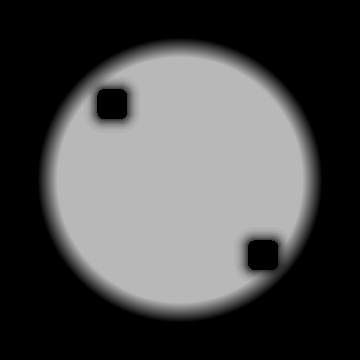
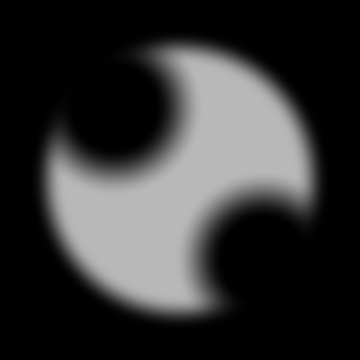
fix: revise K2 complete field direction and core edge

Changed region(s): [[0.1222, 0.1222, 0.55, 0.5194], [0.4889, 0.4889, 0.8861, 0.8861]]

diff --git a/verification/final-art-025-material-test/k2-complete-field-study.html b/verification/final-art-025-material-test/k2-complete-field-study.html
@@ -1,21 +1,21 @@
 <!doctype html>
 <html lang="zh-CN">
 <head><meta charset="utf-8"><meta name="viewport" content="width=device-width,initial-scale=1">
-<title>MindIsle WaterBall · K2 完整字段对照</title>
+<title>MindIsle WaterBall · K2 完整字段对照 · 修正版</title>
 <style>
 :root{color-scheme:light;--ink:#183b45;--muted:#5f7b82;--line:#d7e7e9;--panel:#f2f8f8;--accent:#277b88}*{box-sizing:border-box}body{margin:0;background:#eef6f7;color:var(--ink);font-family:-apple-system,BlinkMacSystemFont,"SF Pro Text","PingFang SC","Microsoft YaHei",sans-serif}main{max-width:980px;margin:0 auto;padding:30px 20px 56px}h1{margin:0 0 8px;font-size:28px}.intro{max-width:820px;color:var(--muted);line-height:1.7}.rule{border-left:3px solid var(--accent);background:#fff;padding:13px 16px;border-radius:0 10px 10px 0;line-height:1.65;margin:16px 0}.compare{display:grid;grid-template-columns:repeat(2,minmax(0,1fr));gap:16px}.card{background:#fff;border:1px solid var(--line);border-radius:14px;padding:12px}.card h2{font-size:17px;margin:2px 0 8px}.card p{font-size:13px;color:var(--muted);line-height:1.55}.card img,.card canvas{display:block;width:100%;aspect-ratio:1;border-radius:10px;background:#9aa6aa}.controls{display:flex;gap:8px;flex-wrap:wrap;margin:12px 0}.controls button{border:1px solid #bdd9dc;background:#fff;border-radius:999px;padding:8px 12px;color:var(--ink);cursor:pointer}.controls button.active{background:var(--accent);border-color:var(--accent);color:#fff}.range{display:grid;grid-template-columns:120px 1fr 58px;gap:8px;align-items:center;margin:12px 0}.range input{width:100%}.status{display:inline-block;padding:6px 10px;border-radius:999px;background:#e8f7f8;color:#155c65;font-size:13px}.question{border:2px solid var(--accent);background:#fff;border-radius:14px;padding:18px;margin-top:18px}.question h2{margin:0 0 8px;font-size:21px}.question p{color:var(--muted);line-height:1.6}.answers{display:flex;gap:10px;flex-wrap:wrap}.answer{border:1px solid #bdd9dc;background:#fff;border-radius:12px;padding:10px 16px;color:var(--ink);cursor:pointer;font:inherit}.answer.selected{background:var(--accent);border-color:var(--accent);color:#fff}.note{width:100%;min-height:70px;border:1px solid var(--line);border-radius:10px;padding:10px;font:14px inherit;margin-top:12px}.result{white-space:pre-wrap;background:var(--panel);border-radius:9px;padding:12px;margin-top:12px;font:12px ui-monospace,SFMono-Regular,Menlo,monospace;color:#42646b}.chips{display:flex;flex-wrap:wrap;gap:6px;margin-top:10px}.chip{font-size:12px;padding:5px 8px;border-radius:999px;background:var(--panel);color:#42646b}@media(max-width:760px){.compare{grid-template-columns:1fr}}
 </style></head>
 <body><main>
-<h1>K2 完整字段对照</h1>
-<p class="intro">这一页只验证一件事：右边新拆出的完整字段包，视觉上是否保持左边已经通过的水球。左边是已通过版本，右边是新字段包。你不需要看字段名称。</p>
-<div class="rule"><strong>只看左右两边：</strong>右边不能比左边更破、更硬、更灰、更像雾；球体边缘和内部水感应保持一致。点击右边“自动播放”观察变化。</div>
-<div class="compare"><section class="card"><h2>左边：已通过版本</h2><span class="status">当前视觉基线</span><p>这是上一轮已经通过的 A shell/core + B interior。</p><img src="k2-authored-optical-field/field-authority-rgb.png" alt="已通过版本"></section><section class="card"><h2>右边：新完整字段包</h2><span class="status">新字段重建</span><p>这是由独立 shell、core、silhouette 和内部字段重新合成的版本。</p><canvas id="gpu" width="360" height="360"></canvas><div class="controls"><button id="play">自动播放</button><button id="pause">暂停</button><button id="reset">回到起点</button></div><div class="range"><label>变化强度</label><input id="strength" type="range" min="0" max="1" step=".001" value="1"><span id="strengthValue">1.000</span></div></section></div>
+<h1>K2 完整字段对照 · 修正版</h1>
+<p class="intro">这一页只验证一件事：右边新拆出的完整字段包，视觉上是否保持左边已经通过的水球。左边是已通过版本，右边是修正后的新字段包。你不需要看字段名称。</p>
+<div class="rule"><strong>只看左右两边：</strong>右边不能比左边更破、更硬、更灰、更像雾；核边缘不能出现方形或额外一层膜。点击右边“自动播放”观察变化；方向保持上一轮已通过版本的内部流向。</div>
+<div class="compare"><section class="card"><h2>左边：已通过版本</h2><span class="status">当前视觉基线</span><p>这是上一轮已经通过的 A shell/core + B interior。</p><img src="k2-authored-optical-field/field-authority-rgb.png" alt="已通过版本"></section><section class="card"><h2>右边：新完整字段包</h2><span class="status">修正版候选</span><p>这是修正方向和核边缘后的独立字段重建版本。</p><canvas id="gpu" width="360" height="360"></canvas><div class="controls"><button id="play">自动播放</button><button id="pause">暂停</button><button id="reset">回到起点</button></div><div class="range"><label>变化强度</label><input id="strength" type="range" min="0" max="1" step=".001" value="1"><span id="strengthValue">1.000</span></div><div class="range"><label>内部方向</label><input id="flow" type="range" min="0" max="1" step=".001" value="1"><span id="flowValue">1.000</span></div></section></div>
 <div class="controls" id="backgrounds"><button data-bg="fit" class="active">浅色</button><button data-bg="dark">深色</button><button data-bg="checker">棋盘</button></div><p id="status" class="status">正在加载新字段…</p><div class="chips"><span class="chip">A shell</span><span class="chip">A core</span><span class="chip">interior depth</span><span class="chip">density</span><span class="chip">transmission</span><span class="chip">refraction</span></div>
 <section class="question"><h2>你的判断：右边和左边一样自然吗？</h2><p>只比较两个球的外形、边缘、内部水感和动态是否一致。</p><div class="answers"><button class="answer" data-value="是">是，基本一致</button><button class="answer" data-value="否">否，右边明显变差</button><button class="answer" data-value="看不出来">看不出来</button></div><textarea id="note" class="note" placeholder="可选：例如“右边顶部变硬”“右边内部更像雾”。"></textarea><div class="controls"><button id="generate" class="controls-button">生成裁决文本</button><button id="copy" class="controls-button">复制裁决文本</button></div><div id="result" class="result">还没有生成裁决文本。</div></section>
 <p class="intro"><a href="k2-endpoint-review.html">返回总裁决页面</a> · <a href="k2-complete-authored-field/k2-complete-authored-field.json">查看完整字段证据</a></p>
 </main><script>
 const V=`#version 300 es\nin vec2 p;out vec2 uv;void main(){uv=p*.5+.5;gl_Position=vec4(p,0.,1.);}`;
-const F=`#version 300 es\nprecision highp float;in vec2 uv;out vec4 outColor;uniform sampler2D tBase,tShell,tCore,tShellMask,tCoreMask,tDepth,tThickness,tTransmission,tResidual,tInterior,tSilhouette;uniform int bgMode;uniform float strength,phase;vec3 bg(vec2 p){if(bgMode==1)return vec3(.07,.13,.16);if(bgMode==2){vec2 c=floor(p*12.);return mix(vec3(.96,.97,.92),vec3(.82,.89,.91),mod(c.x+c.y,2.));}return vec3(.8784,.9216,.9373);}void main(){float im=texture(tInterior,uv).r;float sm=texture(tShellMask,uv).r;float cm=texture(tCoreMask,uv).r;float sil=texture(tSilhouette,uv).r;vec3 base=texture(tBase,uv).rgb;vec3 shell=texture(tShell,uv).rgb/max(sm,.05);vec3 core=texture(tCore,uv).rgb/max(cm,.05);vec3 frozen=mix(base,shell,sm);frozen=mix(frozen,core,cm);vec2 q=clamp(uv+vec2(sin(uv.y*7.+phase),cos(uv.x*6.-phase))*.026*im,0.,1.);vec3 trans=texture(tTransmission,q).rgb;vec3 residual=texture(tResidual,q).rgb*2.-1.;vec3 fit=bg(uv)*trans+residual;vec3 color=mix(frozen,fit,strength*im);outColor=vec4(mix(bg(uv),color,sil),1.);}`;
-const files={base:'k2-complete-authored-field/field-authority-a-rgb.png',shell:'k2-complete-authored-field/field-shell-authority.png',core:'k2-complete-authored-field/field-core-authority.png',shellMask:'k2-complete-authored-field/field-shell-mask.png',coreMask:'k2-complete-authored-field/field-core-mask.png',depth:'k2-complete-authored-field/field-optical-depth.png',thickness:'k2-complete-authored-field/field-thickness.png',transmission:'k2-complete-authored-field/field-transmission.png',residual:'k2-complete-authored-field/field-residual-signed-encoded.png',interior:'k2-complete-authored-field/field-interior-mask.png',silhouette:'k2-complete-authored-field/field-silhouette.png'};const modes={fit:0,dark:1,checker:2};let bg='fit',strength=1,phase=0,playing=false,last=0,raf=0,gl,program,loc;
-function shader(t,s){const x=gl.createShader(t);gl.shaderSource(x,s);gl.compileShader(x);if(!gl.getShaderParameter(x,gl.COMPILE_STATUS))throw Error(gl.getShaderInfoLog(x));return x}function load(url){return new Promise((ok,no)=>{const i=new Image();i.onload=()=>ok(i);i.onerror=()=>no(Error(url));i.src=url})}function draw(){gl.viewport(0,0,360,360);gl.useProgram(program);gl.uniform1i(loc.bgMode,modes[bg]);gl.uniform1f(loc.strength,strength);gl.uniform1f(loc.phase,phase);gl.drawArrays(gl.TRIANGLES,0,6);document.getElementById('strengthValue').textContent=strength.toFixed(3)}function setPlaying(v){playing=v;cancelAnimationFrame(raf);if(v){last=performance.now();raf=requestAnimationFrame(loop)}draw()}function loop(t){if(!playing)return;const dt=Math.min(64,t-last||16);last=t;phase+=dt*.0026;strength=.2+.8*(.5+.5*Math.sin(phase*.72));draw();raf=requestAnimationFrame(loop)}async function start(){try{const c=document.getElementById('gpu');gl=c.getContext('webgl2',{preserveDrawingBuffer:true});if(!gl)throw Error('当前浏览器不支持 WebGL2');program=gl.createProgram();gl.attachShader(program,shader(gl.VERTEX_SHADER,V));gl.attachShader(program,shader(gl.FRAGMENT_SHADER,F));gl.linkProgram(program);if(!gl.getProgramParameter(program,gl.LINK_STATUS))throw Error(gl.getProgramInfoLog(program));gl.useProgram(program);loc={bgMode:gl.getUniformLocation(program,'bgMode'),strength:gl.getUniformLocation(program,'strength'),phase:gl.getUniformLocation(program,'phase')};const b=gl.createBuffer();gl.bindBuffer(gl.ARRAY_BUFFER,b);gl.bufferData(gl.ARRAY_BUFFER,new Float32Array([-1,-1,1,-1,-1,1,-1,1,1,-1,1,1]),gl.STATIC_DRAW);const a=gl.getAttribLocation(program,'p');gl.enableVertexAttribArray(a);gl.vertexAttribPointer(a,2,gl.FLOAT,false,0,0);for(const [k,url] of Object.entries(files)){const img=await load(url),unit=Object.keys(files).indexOf(k),tex=gl.createTexture();gl.activeTexture(gl.TEXTURE0+unit);gl.bindTexture(gl.TEXTURE_2D,tex);gl.texParameteri(gl.TEXTURE_2D,gl.TEXTURE_MIN_FILTER,gl.LINEAR);gl.texParameteri(gl.TEXTURE_2D,gl.TEXTURE_MAG_FILTER,gl.LINEAR);gl.texParameteri(gl.TEXTURE_2D,gl.TEXTURE_WRAP_S,gl.CLAMP_TO_EDGE);gl.texParameteri(gl.TEXTURE_2D,gl.TEXTURE_WRAP_T,gl.CLAMP_TO_EDGE);gl.texImage2D(gl.TEXTURE_2D,0,gl.RGBA,gl.RGBA,gl.UNSIGNED_BYTE,img);gl.uniform1i(gl.getUniformLocation(program,'t'+k[0].toUpperCase()+k.slice(1)),unit)}document.getElementById('status').textContent='新完整字段已加载 · shell/core 冻结';draw()}catch(e){document.getElementById('status').textContent='字段加载失败：'+e.message}}document.getElementById('play').onclick=()=>setPlaying(true);document.getElementById('pause').onclick=()=>setPlaying(false);document.getElementById('reset').onclick=()=>{setPlaying(false);strength=1;phase=0;bg='fit';draw()};document.getElementById('strength').oninput=e=>{setPlaying(false);strength=+e.target.value;draw()};document.querySelectorAll('[data-bg]').forEach(x=>x.onclick=()=>{bg=x.dataset.bg;document.querySelectorAll('[data-bg]').forEach(y=>y.classList.toggle('active',y===x));draw()});let answer='';document.querySelectorAll('.answer').forEach(x=>x.onclick=()=>{answer=x.dataset.value;document.querySelectorAll('.answer').forEach(y=>y.classList.toggle('selected',y===x))});function text(){if(!answer)return '';return `K2 完整字段对照裁决\nVERDICT=${answer==='是'?'PASS_REVIEW':answer==='否'?'REVISE_VISUAL':'HOLD'}\n新字段与已通过版本：${answer}\n备注：${document.getElementById('note').value.trim()||'（未补充备注）'}`}document.getElementById('generate').onclick=()=>document.getElementById('result').textContent=text()||'请先选择判断。';document.getElementById('copy').onclick=async()=>{const t=text();if(!t){document.getElementById('result').textContent='请先选择判断。';return}try{await navigator.clipboard.writeText(t);document.getElementById('result').textContent=t+'\n\n已复制，请粘贴回本对话。'}catch{document.getElementById('result').textContent=t+'\n\n请手动复制。'}};start();
+const F=`#version 300 es\nprecision highp float;in vec2 uv;out vec4 outColor;uniform sampler2D tBase,tShell,tCore,tShellMask,tCoreMask,tDepth,tThickness,tTransmission,tResidual,tInterior,tSilhouette;uniform int bgMode;uniform float strength,flow,phase;vec3 bg(vec2 p){if(bgMode==1)return vec3(.07,.13,.16);if(bgMode==2){vec2 c=floor(p*12.);return mix(vec3(.96,.97,.92),vec3(.82,.89,.91),mod(c.x+c.y,2.));}return vec3(.8784,.9216,.9373);}void main(){float im=texture(tInterior,uv).r;float sm=texture(tShellMask,uv).r;float cm=texture(tCoreMask,uv).r;float sil=texture(tSilhouette,uv).r;vec3 base=texture(tBase,uv).rgb;vec3 shell=texture(tShell,uv).rgb/max(sm,.05);vec3 core=texture(tCore,uv).rgb/max(cm,.05);vec3 frozen=mix(base,shell,sm);frozen=mix(frozen,core,cm);vec2 q=clamp(uv+vec2(sin(uv.y*7.+phase),cos(uv.x*6.-phase))*.026*flow*im,0.,1.);vec3 trans=texture(tTransmission,q).rgb;vec3 residual=texture(tResidual,q).rgb*2.-1.;vec3 fit=bg(uv)*trans+residual;vec3 color=mix(frozen,fit,strength*im);outColor=vec4(mix(bg(uv),color,sil),1.);}`;
+const files={base:'k2-complete-authored-field/field-authority-a-rgb.png',shell:'k2-complete-authored-field/field-shell-authority.png',core:'k2-complete-authored-field/field-core-authority.png',shellMask:'k2-complete-authored-field/field-shell-mask.png',coreMask:'k2-complete-authored-field/field-core-mask.png',depth:'k2-complete-authored-field/field-optical-depth.png',thickness:'k2-complete-authored-field/field-thickness.png',transmission:'k2-complete-authored-field/field-transmission.png',residual:'k2-complete-authored-field/field-residual-signed-encoded.png',interior:'k2-complete-authored-field/field-interior-mask.png',silhouette:'k2-complete-authored-field/field-silhouette.png'};const modes={fit:0,dark:1,checker:2};let bg='fit',strength=1,flow=1,phase=0,playing=false,last=0,raf=0,gl,program,loc;
+function shader(t,s){const x=gl.createShader(t);gl.shaderSource(x,s);gl.compileShader(x);if(!gl.getShaderParameter(x,gl.COMPILE_STATUS))throw Error(gl.getShaderInfoLog(x));return x}function load(url){return new Promise((ok,no)=>{const i=new Image();i.onload=()=>ok(i);i.onerror=()=>no(Error(url));i.src=url})}function draw(){gl.viewport(0,0,360,360);gl.useProgram(program);gl.uniform1i(loc.bgMode,modes[bg]);gl.uniform1f(loc.strength,strength);gl.uniform1f(loc.flow,flow);gl.uniform1f(loc.phase,phase);gl.drawArrays(gl.TRIANGLES,0,6);document.getElementById('strengthValue').textContent=strength.toFixed(3);document.getElementById('flowValue').textContent=flow.toFixed(3)}function setPlaying(v){playing=v;cancelAnimationFrame(raf);if(v){last=performance.now();raf=requestAnimationFrame(loop)}draw()}function loop(t){if(!playing)return;const dt=Math.min(64,t-last||16);last=t;phase+=dt*.0026;strength=.2+.8*(.5+.5*Math.sin(phase*.72));flow=.2+.8*(.5+.5*Math.sin(phase*.9+1.2));draw();raf=requestAnimationFrame(loop)}async function start(){try{const c=document.getElementById('gpu');gl=c.getContext('webgl2',{preserveDrawingBuffer:true});if(!gl)throw Error('当前浏览器不支持 WebGL2');program=gl.createProgram();gl.attachShader(program,shader(gl.VERTEX_SHADER,V));gl.attachShader(program,shader(gl.FRAGMENT_SHADER,F));gl.linkProgram(program);if(!gl.getProgramParameter(program,gl.LINK_STATUS))throw Error(gl.getProgramInfoLog(program));gl.useProgram(program);loc={bgMode:gl.getUniformLocation(program,'bgMode'),strength:gl.getUniformLocation(program,'strength'),flow:gl.getUniformLocation(program,'flow'),phase:gl.getUniformLocation(program,'phase')};const b=gl.createBuffer();gl.bindBuffer(gl.ARRAY_BUFFER,b);gl.bufferData(gl.ARRAY_BUFFER,new Float32Array([-1,-1,1,-1,-1,1,-1,1,1,-1,1,1]),gl.STATIC_DRAW);const a=gl.getAttribLocation(program,'p');gl.enableVertexAttribArray(a);gl.vertexAttribPointer(a,2,gl.FLOAT,false,0,0);gl.pixelStorei(gl.UNPACK_FLIP_Y_WEBGL,true);for(const [k,url] of Object.entries(files)){const img=await load(url),unit=Object.keys(files).indexOf(k),tex=gl.createTexture();gl.activeTexture(gl.TEXTURE0+unit);gl.bindTexture(gl.TEXTURE_2D,tex);gl.texParameteri(gl.TEXTURE_2D,gl.TEXTURE_MIN_FILTER,gl.LINEAR);gl.texParameteri(gl.TEXTURE_2D,gl.TEXTURE_MAG_FILTER,gl.LINEAR);gl.texParameteri(gl.TEXTURE_2D,gl.TEXTURE_WRAP_S,gl.CLAMP_TO_EDGE);gl.texParameteri(gl.TEXTURE_2D,gl.TEXTURE_WRAP_T,gl.CLAMP_TO_EDGE);gl.texImage2D(gl.TEXTURE_2D,0,gl.RGBA,gl.RGBA,gl.UNSIGNED_BYTE,img);gl.uniform1i(gl.getUniformLocation(program,'t'+k[0].toUpperCase()+k.slice(1)),unit)}document.getElementById('status').textContent='新完整字段已加载 · shell/core 冻结';draw()}catch(e){document.getElementById('status').textContent='字段加载失败：'+e.message}}document.getElementById('play').onclick=()=>setPlaying(true);document.getElementById('pause').onclick=()=>setPlaying(false);document.getElementById('reset').onclick=()=>{setPlaying(false);strength=1;flow=1;phase=0;bg='fit';draw()};document.getElementById('strength').oninput=e=>{setPlaying(false);strength=+e.target.value;draw()};document.getElementById('flow').oninput=e=>{setPlaying(false);flow=+e.target.value;draw()};document.querySelectorAll('[data-bg]').forEach(x=>x.onclick=()=>{bg=x.dataset.bg;document.querySelectorAll('[data-bg]').forEach(y=>y.classList.toggle('active',y===x));draw()});let answer='';document.querySelectorAll('.answer').forEach(x=>x.onclick=()=>{answer=x.dataset.value;document.querySelectorAll('.answer').forEach(y=>y.classList.toggle('selected',y===x))});function text(){if(!answer)return '';return `K2 完整字段对照裁决\nVERDICT=${answer==='是'?'PASS_REVIEW':answer==='否'?'REVISE_VISUAL':'HOLD'}\n新字段与已通过版本：${answer}\n备注：${document.getElementById('note').value.trim()||'（未补充备注）'}`}document.getElementById('generate').onclick=()=>document.getElementById('result').textContent=text()||'请先选择判断。';document.getElementById('copy').onclick=async()=>{const t=text();if(!t){document.getElementById('result').textContent='请先选择判断。';return}try{await navigator.clipboard.writeText(t);document.getElementById('result').textContent=t+'\n\n已复制，请粘贴回本对话。'}catch{document.getElementById('result').textContent=t+'\n\n请手动复制。'}};start();
 </script></body></html>

diff --git a/verification/final-art-025-material-test/build_k2_complete_authored_field.py b/verification/final-art-025-material-test/build_k2_complete_authored_field.py
@@ -11,7 +11,7 @@ import json
 from pathlib import Path
 
 import numpy as np
-from PIL import Image
+from PIL import Image, ImageFilter
 
 ROOT = Path(__file__).resolve().parent
 SOURCE = ROOT / "k2-authored-optical-field"
@@ -35,15 +35,29 @@ def digest(path: Path) -> str:
 authority = read(SOURCE / "field-base-a-authority.png")
 target = read(SOURCE / "field-authority-rgb.png")
 silhouette = read(SOURCE / "field-silhouette.png")[..., 0]
-interior = read(SOURCE / "field-interior-mask.png")[..., 0] * silhouette
-core = read(SOURCE / "field-core-mask.png")[..., 0] * silhouette
+# The upstream mask carried square alpha cutouts around the two point cores.
+# Re-author those boundaries as soft circular fields so they cannot render as
+# rectangular overlays in the complete package.
+raw_interior = read(SOURCE / "field-interior-mask.png")[..., 0]
+soft_interior = np.asarray(Image.fromarray(np.uint8(raw_interior * 255.0)).filter(ImageFilter.GaussianBlur(5)), dtype=np.float64) / 255.0
+yy, xx = np.mgrid[:SIZE, :SIZE]
+def soft_disc(cx: float, cy: float, inner: float = 8.0, outer: float = 30.0) -> np.ndarray:
+    dist = np.sqrt((xx - cx) ** 2 + (yy - cy) ** 2)
+    t = np.clip((outer - dist) / max(outer - inner, 1.0), 0.0, 1.0)
+    return t * t * (3.0 - 2.0 * t)
+core = np.maximum(soft_disc(SIZE * 0.317, SIZE * 0.297, 10.0, 48.0), soft_disc(SIZE * 0.731, SIZE * 0.719, 10.0, 48.0)) * silhouette
+core_exclusion = np.maximum(soft_disc(SIZE * 0.317, SIZE * 0.297, 40.0, 90.0), soft_disc(SIZE * 0.731, SIZE * 0.719, 40.0, 90.0)) * silhouette
+interior = np.clip(soft_interior * (1.0 - core_exclusion), 0.0, 1.0) * silhouette
 shell = np.clip(silhouette - interior - core, 0.0, 1.0)
 depth = read(SOURCE / "field-optical-depth-authored.png")[..., 0] * interior
 thickness = read(SOURCE / "field-thickness-authored.png")[..., 0] * interior
 refraction = read(SOURCE / "field-refraction-authored.png")
-residual = read(SOURCE / "field-residual-signed-encoded.png")
-residual_signed = residual * 2.0 - 1.0
 transmission = np.exp(-depth[..., None] * thickness[..., None] * 1.65)
+# Refit the signed residual against the softened core exclusion so the old
+# square-cutout residual cannot leak back as a halo around either point.
+BG = np.array([224.0, 235.0, 239.0]) / 255.0
+residual_signed = (target - BG * transmission) * interior[..., None]
+residual = np.clip(0.5 + residual_signed * 0.5, 0.0, 1.0)
 density = np.clip(depth * (0.35 + 0.65 * thickness), 0.0, 1.0) * interior
 
 save(OUT / "field-authority-a-rgb.png", authority)
@@ -64,13 +78,12 @@ save(OUT / "field-residual-signed-encoded.png", residual)
 
 # The authored fit is allowed to affect only the interior mask. Frozen A is
 # copied back for shell/core/outside so the package has an explicit authority boundary.
-BG = np.array([224.0, 235.0, 239.0]) / 255.0
 fit = np.clip(BG * transmission + residual_signed, 0.0, 1.0)
 reconstructed = authority * (1.0 - interior[..., None]) + fit * interior[..., None]
 save(OUT / "field-complete-reconstruction.png", reconstructed)
 error = np.abs(reconstructed - target) * 255.0
 shell_region = (silhouette > 0.90) & (interior < 0.03) & (core < 0.03)
-core_region = (silhouette > 0.90) & (core > 0.03)
+core_region = (silhouette > 0.90) & (core > 0.75)
 outside_region = silhouette < 0.06
 interior_region = interior > 0.03
 metrics = {
@@ -108,7 +121,13 @@ report = {
         "signed residual still mixes reflection/scatter/film",
         "no ProductState, formation/deformation, moving, runtime interpolation, or production migration",
     ],
-    "human_gate": "current fixed-view visual review PASS_REVIEW; complete package still requires a later human endpoint review",
+    "human_gate": "previous fixed-view visual review PASS_REVIEW; this revised package awaits a new human comparison review",
+    "visual_review_status": "REVISED_AFTER_DIRECTION_AND_CORE_EDGE_REVIEW__AWAITING_HUMAN_REVIEW",
+    "revision_notes": [
+        "restored the previous accepted internal flow direction and texture orientation",
+        "re-authored square core alpha cutouts as soft circular protection fields",
+        "refit signed residual against the softened core exclusion to remove square or halo leakage",
+    ],
     "files_sha256": {p.name: digest(p) for p in sorted(OUT.glob("*.png"))},
 }
 (OUT / "k2-complete-authored-field.json").write_text(json.dumps(report, ensure_ascii=False, indent=2) + "\n")

diff --git a/docs/tasks/waterball-continuous-roadmap.md b/docs/tasks/waterball-continuous-roadmap.md
@@ -64,7 +64,7 @@ Current active milestone: **M3 — Continuous Field / bounded dynamic 2.5D study
 - **Allowed:** 首段独立滑杆，以及同一固定 body domain 内的连续播放、进度拖拽和沿既有 refraction field 的有界内部输运。025 起点必须回归 M2；silhouette 以 base UV 冻结，球壳、轮廓和固定高光冻结。
 - **Forbidden:** full-frame state image crossfade、formation product semantics、production asset 替换。
 - **Acceptance:** 首段真实滑杆与第二段播放/暂停/拖拽/重置、连续锚点帧、固定壳区、多背景和内部输运证据通过；连续性闸门在中性背景采样 0/.25/.5/.75/1，外部背景最大漂移为 0，平滑比 1.099，状态可恢复。视觉材质与运动感已获人工 PASS。完整 M3 仍要求 continuous field 与 K2 endpoint PASS；较厚试验值不得冒充 050/075/K2 authority。
-- **Next:** 用户已确认 `A shell/core + B interior` 最好；`k2-interior-field-study.html` 已完成 A → A+B interior authored handoff slice，delta field package 的离线回读和浏览器保护区、播放/暂停/reset 已通过。为解决“点击播放没拖动滑杆明显”，研究页使用输运幅度 0.026、约 3.3 秒一轮的平滑 sweep（phase 速率 0.0026，strength 频率 0.72，flow 频率 0.9），并已获人工确认。随后新增 `k2-authored-optical-field-study.html` 与 `k2-authored-optical-field/`，完成固定视角 authored optical fit 的独立字段回读；`k2-endpoint-review.html` 现在把 authority、handoff、field fit 和阻塞项集中成一页；authored field 页又补了四背景 GPU 保护区闸门，确认五个进度点的外部与保护区不漂移且内部确有变化。以上只证明 fixed-view 字段包可复现当前 A+B interior 候选，不证明唯一物理恢复、自由视角或完整 K2 optical endpoint。当前人工 review 已 PASS，下一步已生成 `k2-complete-authored-field/` 完整 fixed-view authored field package；后续视觉审查统一遵循 `verification/final-art-025-material-test/k2-visual-review-protocol.md`。该 package 仍不等于自由视角 K2 endpoint，已用 `k2-complete-field-study.html` 提供上一轮通过版本与新字段包的同页对照，等待人工确认后再决定是否继续；M4 继续 BLOCKED。旧 manifest mismatch 继续作为诊断边界，M3 仍未关闭，M4 继续 BLOCKED。
+- **Next:** 用户已确认 `A shell/core + B interior` 最好；`k2-interior-field-study.html` 已完成 A → A+B interior authored handoff slice，delta field package 的离线回读和浏览器保护区、播放/暂停/reset 已通过。为解决“点击播放没拖动滑杆明显”，研究页使用输运幅度 0.026、约 3.3 秒一轮的平滑 sweep（phase 速率 0.0026，strength 频率 0.72，flow 频率 0.9），并已获人工确认。随后新增 `k2-authored-optical-field-study.html` 与 `k2-authored-optical-field/`，完成固定视角 authored optical fit 的独立字段回读；`k2-endpoint-review.html` 现在把 authority、handoff、field fit 和阻塞项集中成一页；authored field 页又补了四背景 GPU 保护区闸门，确认五个进度点的外部与保护区不漂移且内部确有变化。以上只证明 fixed-view 字段包可复现当前 A+B interior 候选，不证明唯一物理恢复、自由视角或完整 K2 optical endpoint。当前人工 review 已 PASS，下一步已生成 `k2-complete-authored-field/` 完整 fixed-view authored field package；后续视觉审查统一遵循 `verification/final-art-025-material-test/k2-visual-review-protocol.md`。该 package 仍不等于自由视角 K2 endpoint，已用 `k2-complete-field-study.html` 提供上一轮通过版本与修正版字段包的同页对照；首版已被人工指出方向和方形核边缘问题，当前修正版等待同一人工 gate 复看；M4 继续 BLOCKED。旧 manifest mismatch 继续作为诊断边界，M3 仍未关闭，M4 继续 BLOCKED。
 
 ## M4 — Core Integration
 

diff --git a/docs/analysis/CURRENT_RUNTIME_FACTS.md b/docs/analysis/CURRENT_RUNTIME_FACTS.md
@@ -19,6 +19,7 @@
 - 用户已对当前 fixed-view K2 authored field 做出人工 `PASS_REVIEW`：球体完整、播放时只动内部、四背景下仍像水；裁决和后续统一规则记录在 `verification/final-art-025-material-test/k2-endpoint-gate.json` 与 `verification/final-art-025-material-test/k2-visual-review-protocol.md`。这允许继续补完整 K2 field，但不关闭完整 endpoint gate。
 - 已生成 `k2-complete-authored-field/`：A shell、A core、silhouette、B interior mask、optical depth、density、thickness、transmission、refraction 和 unresolved signed residual 均有独立字段；固定视角回读的 shell 最大相对 A 误差 2.031373/255、core 0、outside 0，完整 package 仍标记为 free-view BLOCKED，需人工审查后才能决定下一步。
 - `k2-complete-field-study.html` 已把上一轮通过版本与完整字段包放在同一页左右对照；右侧新字段可播放、暂停、切背景并生成单项裁决文本，真实浏览器检查确认字段加载和交互可用。
+- 用户对首版 complete field comparison 给出 `REVISE_VISUAL`：方向反了，核边缘出现方形图层。已恢复上一轮内部流向和纹理方向，重做软圆形 core protection，并按新 exclusion 重拟合 residual；修正版见 `k2-complete-field-study.html`，当前等待同一人工视觉 gate 复看。
 - 用户曾确认旧 0.012 输运幅度下的自动播放内部变化自然；为解决“点击播放没拖动滑杆明显”，验证页将输运幅度调到 0.026，并把自动播放节奏调整为约 3.3 秒一轮的平滑 sweep（phase 速率 0.0026，strength 频率 0.72，flow 频率 0.9）。这是仅限研究页的可见性调参，静态 field package、shell、core 不变；当前 0.026 / 0.0026 调整已获用户人工确认；独立 K2 field proof、M4 和 production readiness 仍未通过，source audit 已确认 A 与冻结 static composite 逐像素一致；旧 manifest mismatch 被保留为诊断问题，下一步是对 fixed-view authored field 做人工视觉审查，再决定是否继续补完整 K2 endpoint 证据。
 - 主仓库此前保留的 `leader preserve pre-promotion main work` stash 与独立 feature worktree 保持原样。
 
